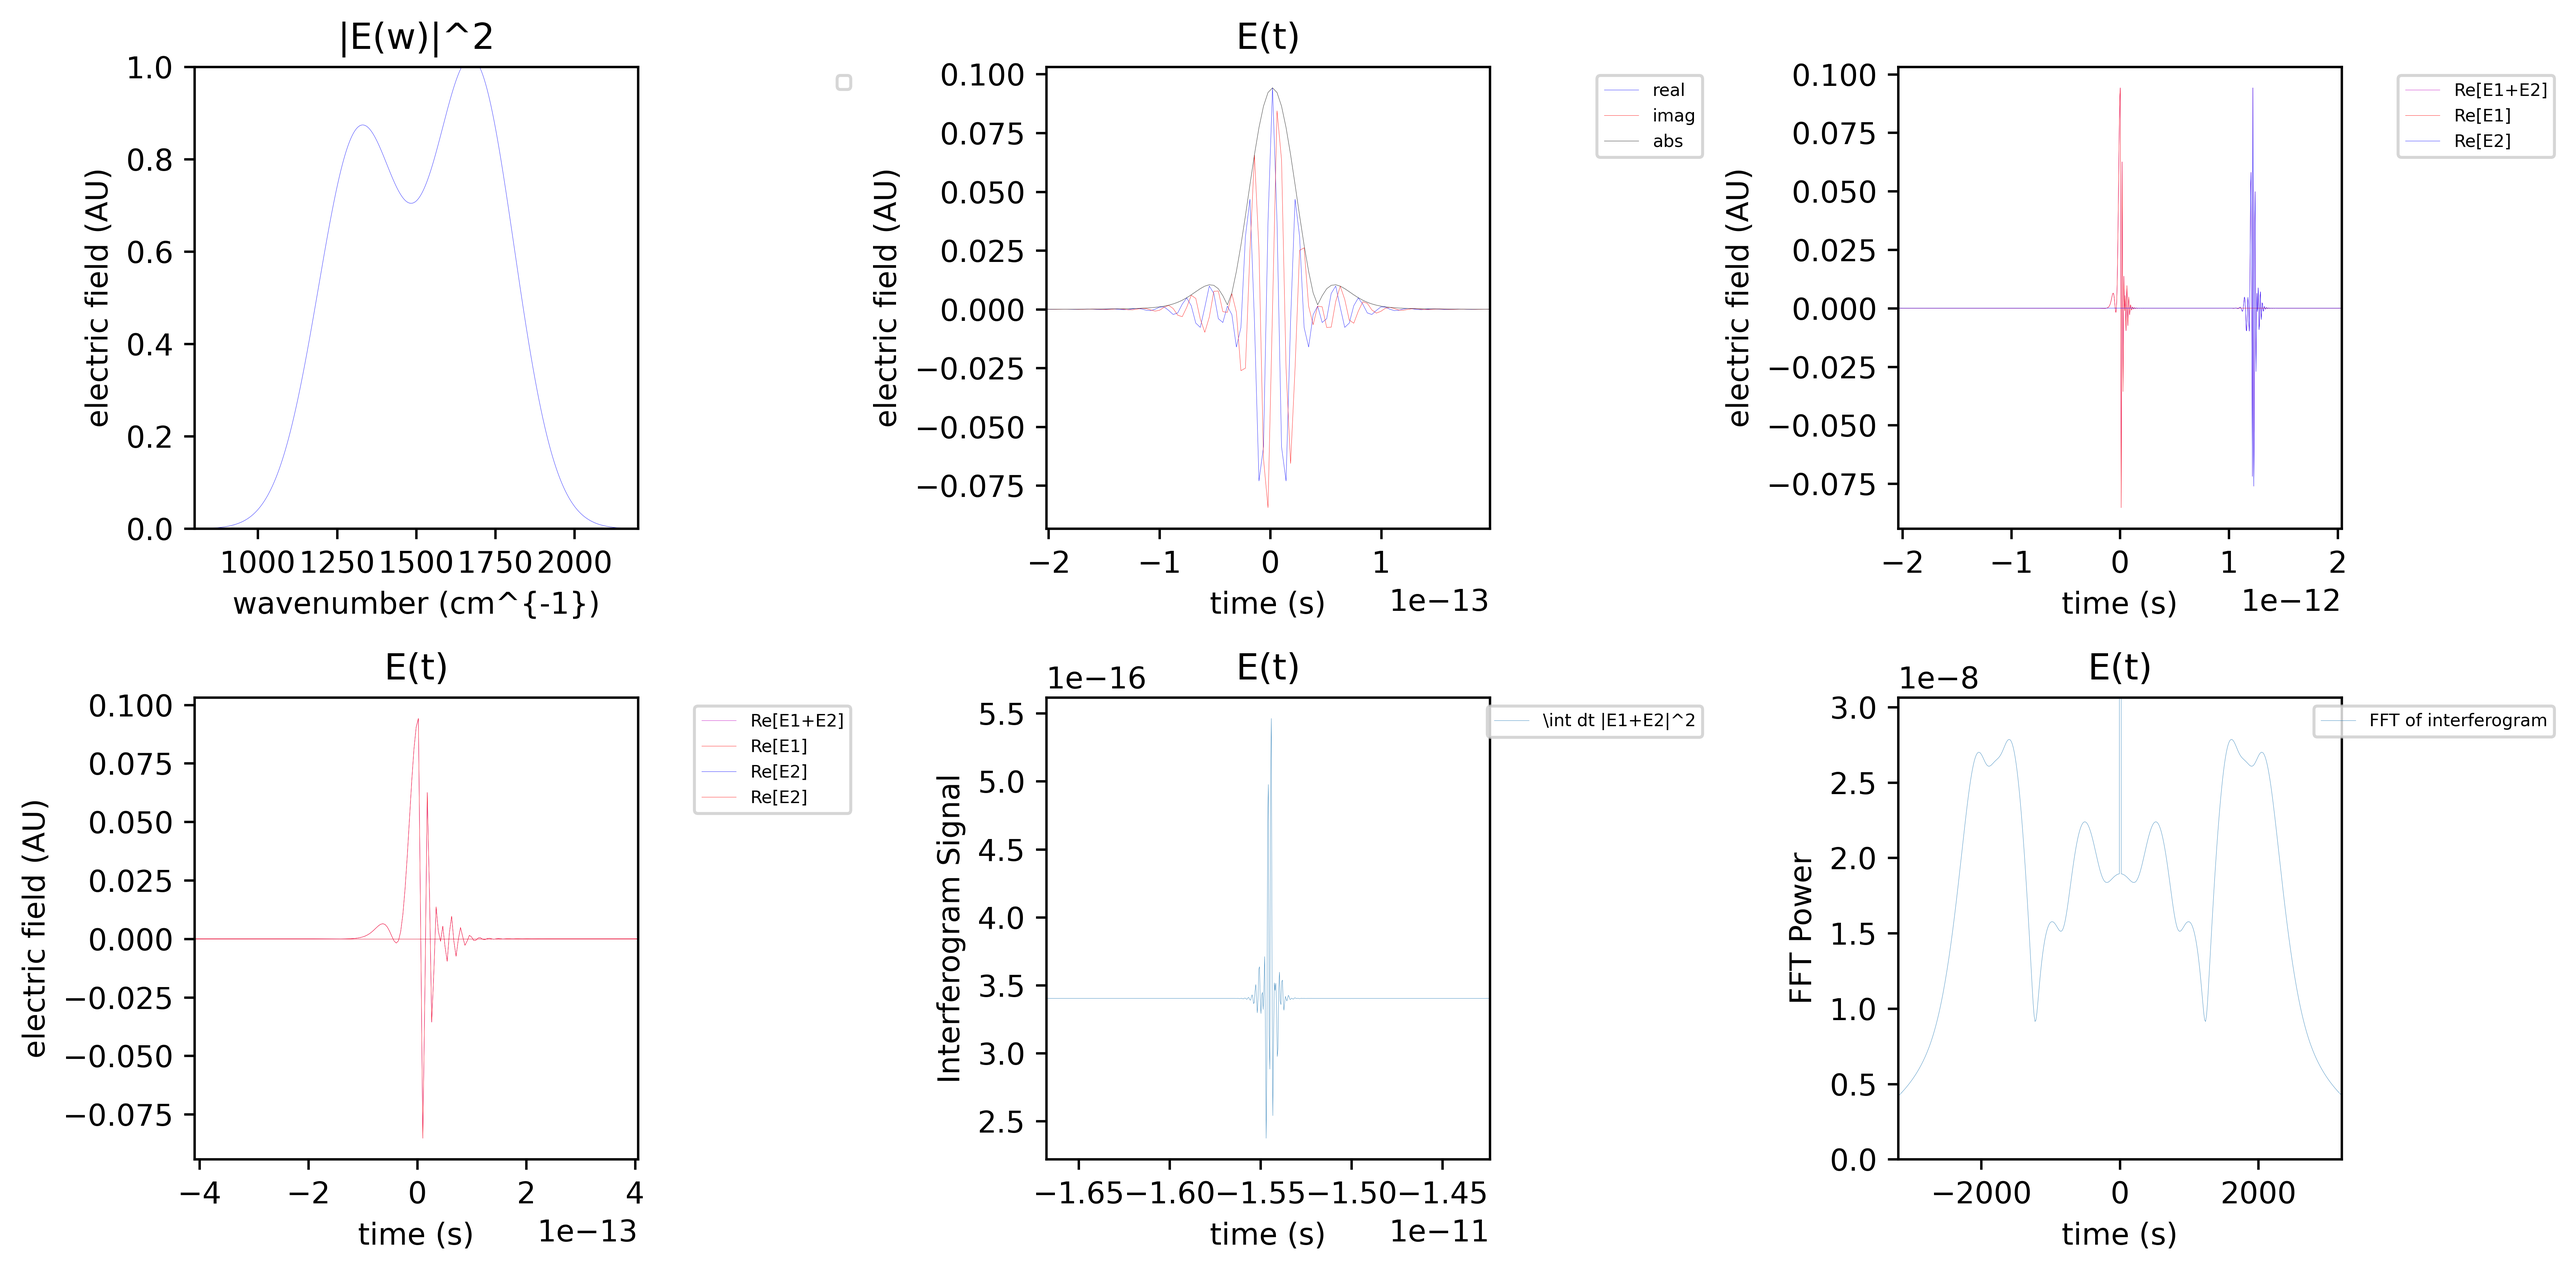
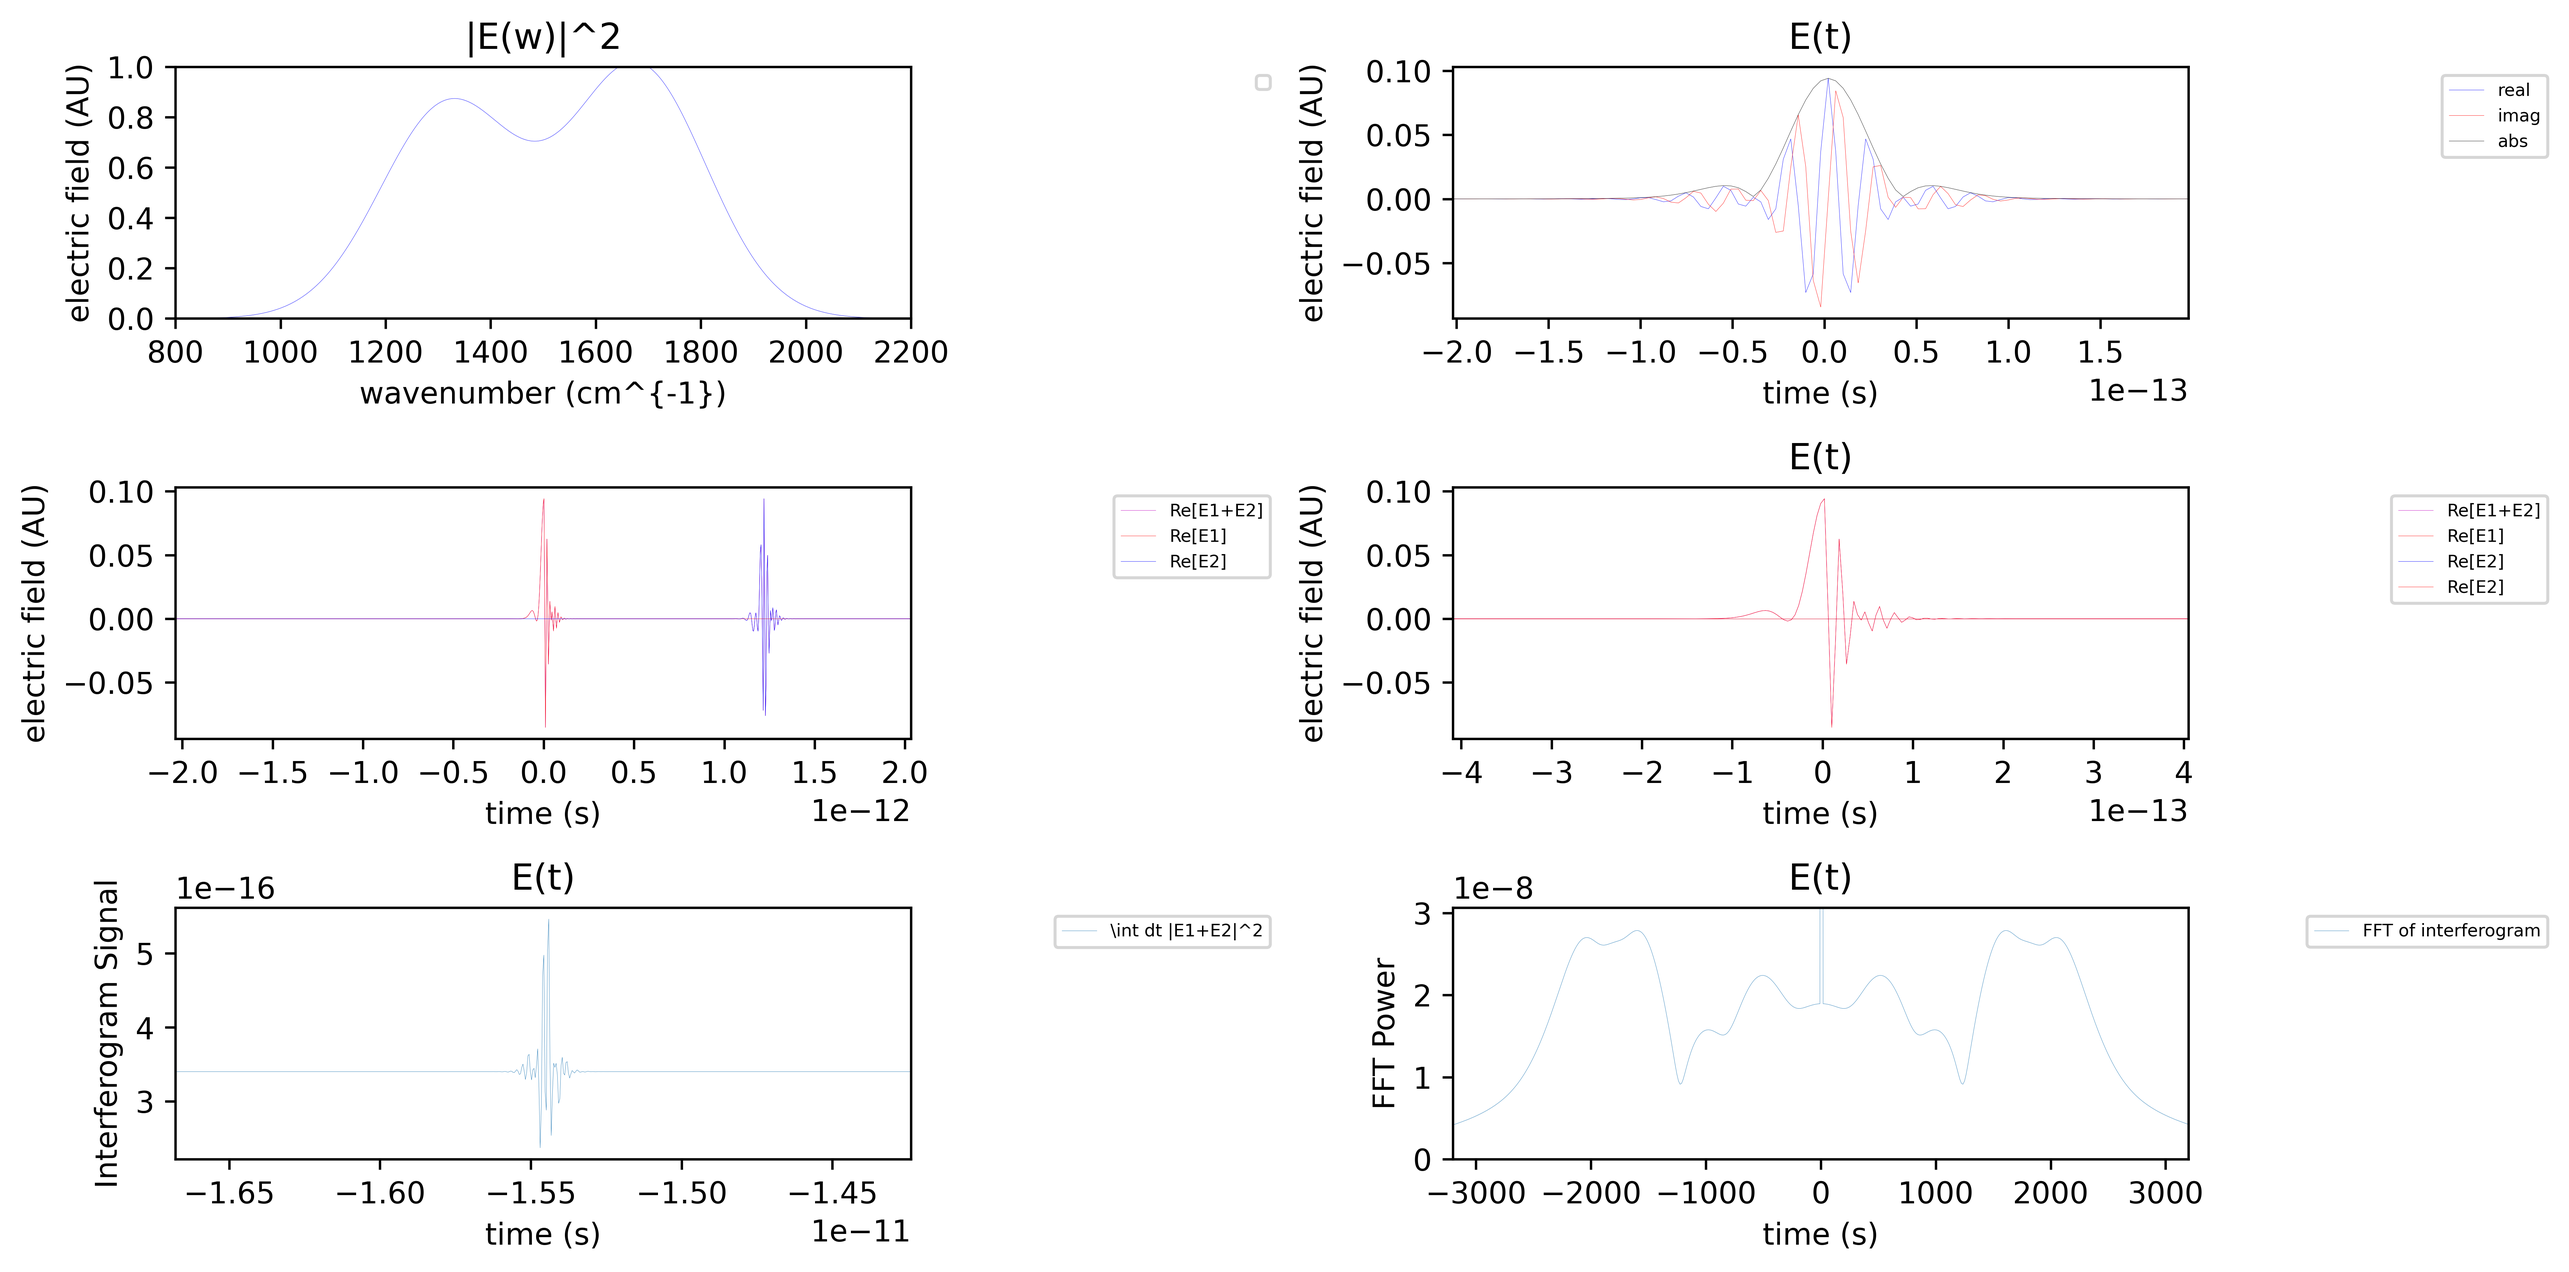
changed fig size

diff --git a/interf.py b/interf.py
@@ -34,7 +34,7 @@ def main(args):
     wlabel = 'wavenumber (cm^{-1})' #w axis label
     Elabel = 'electric field (AU)' #electric field label
     tlabel = 'time (s)'
-    gs = mpl.gridspec.GridSpec(2,3, figure=fig) #make two rows and three columns
+    gs = mpl.gridspec.GridSpec(3,2, figure=fig) #make two rows and three columns
 
     #Make first subplot
     ax = fig.add_subplot(gs[0,0], title='|E(w)|^2')
@@ -78,7 +78,7 @@ def main(args):
     sig_2_0 = np.real(np.fft.fftshift(sig_2_0))
     
     #Make third subplot
-    ax = fig.add_subplot(gs[0,2], title='E(t)')
+    ax = fig.add_subplot(gs[1,0], title='E(t)')
     ax.plot(t, sig_1.real, 'b-', lw=lw, label='Re[E1]')
     ax.plot(t, sig_2_0.real, 'r-', lw=lw, label='Re[E2]')
     ax.set(xlabel=tlabel, ylabel=Elabel)
@@ -101,7 +101,7 @@ def main(args):
         if LIVE or t_n==scan_range[-1]:
             #Update third subplot
             ax.clear()
-            ax = fig.add_subplot(gs[0,2], title='E(t)')
+            ax = fig.add_subplot(gs[1,0], title='E(t)')
             ax.plot(t, np.real(sig_1+sig_2),'m-',lw=lw, label='Re[E1+E2]')
             ax.plot(t, np.real(sig_1),'r-',lw=lw, label='Re[E1]')
             ax.plot(t, np.real(sig_2),'b-',lw=lw, label='Re[E2]')
@@ -113,7 +113,7 @@ def main(args):
             plt.xlim(left=t[t0-500], right=t[t0+500])    
 
             #Make forth subplot
-            ax = fig.add_subplot(gs[1,0], title='E(t)')
+            ax = fig.add_subplot(gs[1,1], title='E(t)')
             ax.plot(t, np.real(sig_1+sig_2),'m-',lw=lw, label='Re[E1+E2]')
             ax.plot(t, np.real(sig_1),'r-',lw=lw, label='Re[E1]')
             ax.plot(t, np.real(sig_2),'b-',lw=lw, label='Re[E2]')
@@ -126,7 +126,7 @@ def main(args):
             plt.xlim(left=t[t0-100], right=t[t0+100])
             
             #Make fifth subplot
-            ax = fig.add_subplot(gs[1,1], title='E(t)')
+            ax = fig.add_subplot(gs[2,0], title='E(t)')
             ax.plot(t[0:n], interf_t[0:n], lw=lw, label='\int dt |E1+E2|^2')
             ax.set(xlabel=tlabel, ylabel='Interferogram Signal')
             ax.legend(fontsize=lfs, loc='best', bbox_to_anchor=[1, 0, 0.5, 1])
@@ -141,7 +141,7 @@ def main(args):
     w_interf = w_interf/dt/c
         
     #Make fifth subplot
-    ax = fig.add_subplot(gs[1,2], title='E(t)')
+    ax = fig.add_subplot(gs[2,1], title='E(t)')
     interferogram_spectrum = np.abs(np.fft.fftshift(np.fft.fft(interf_t)))
     interferogram_spectrum = np.sqrt(interferogram_spectrum)
 
